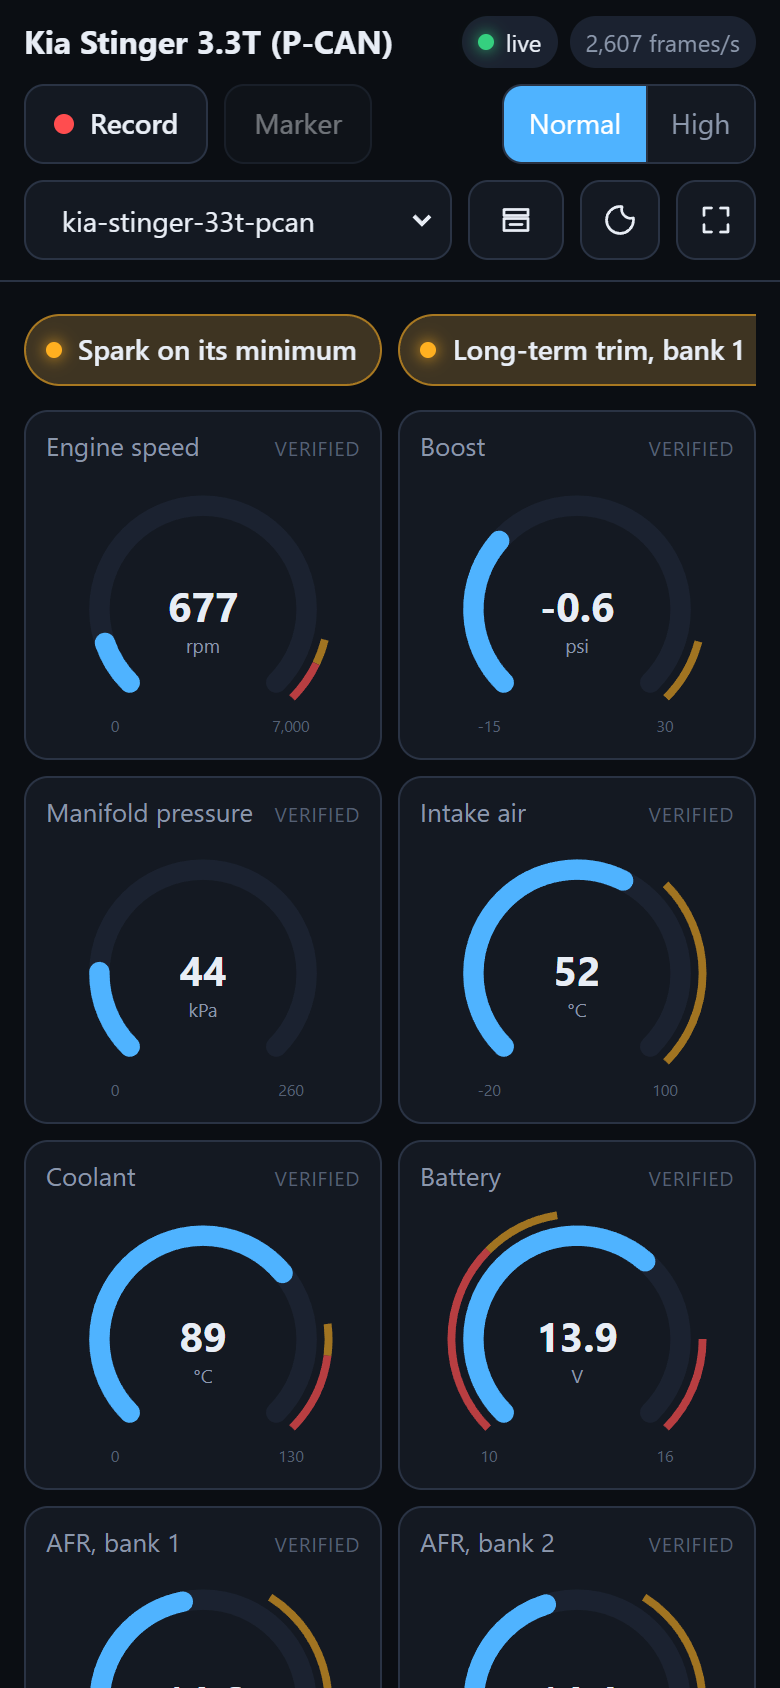
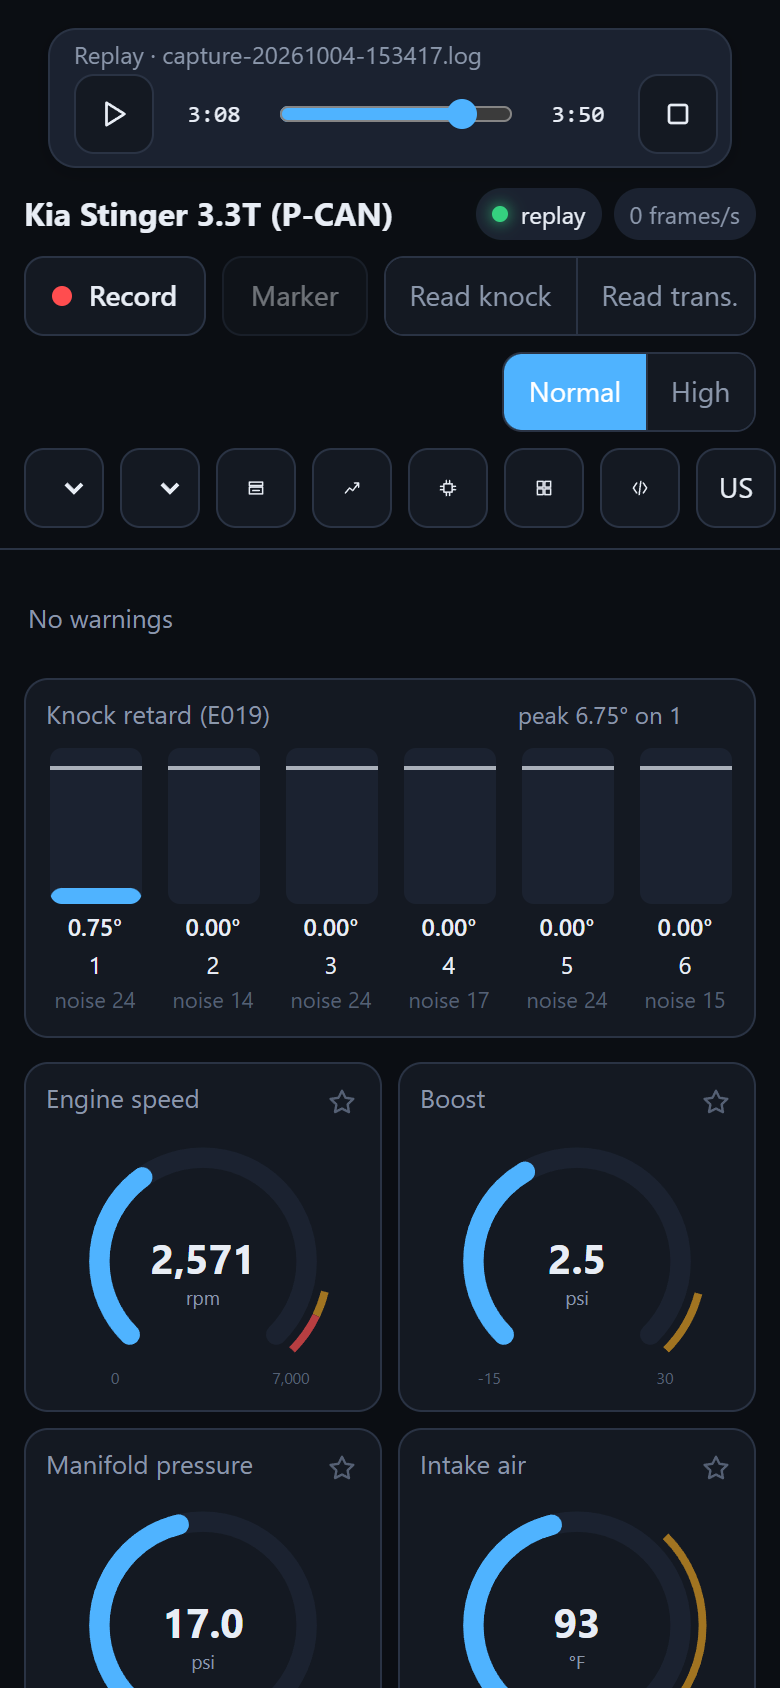
README brought up to date, with new dashboard screenshots
- The introduction says what PandaCapture does now: the dashboard's knock, transmission
  and replay timeline, finding signals and Claude, Runs, diagnostics (reads first; clearing
  and engine-off sessions only with the engine off), the Firmware page, and that the
  Windows program is signed.
- The bar at the top of the gauges lists every control: Read knock / Read transmission,
  Replay, Runs, Firmware, Modules, Developer Tools, US / Metric.
- The built-in map: 115 signals, with target gear and the transmission's drive mode.
- --replay plays on a timeline and opens zips; the command list has runs and diag.
- The status note no longer claims a signal count from an older map, and says what
  hasn't been sent on a real car yet.
- Screenshots retaken from a replay of a real Stinger capture: the gauges with the knock
  tile and the replay timeline, high resolution with traces, and a phone.

The knock tile's bars get 15 % headroom, so a peak mark at the top value still shows.

diff --git a/pandacapture/web/dashboard.html b/pandacapture/web/dashboard.html
@@ -820,7 +820,7 @@
     if (key === knockShown) return;
     knockShown = key;
     $("knockTile").classList.toggle("stale", !!k.stale);
-    const top = Math.max(6, ...k.peak, ...k.retard);
+    const top = Math.max(6, ...k.peak, ...k.retard) * 1.15;   // headroom, so a peak mark shows below the top
     k.retard.forEach((deg, i) => {
       const c = kcyls[i];
       const fill = c.querySelector(".kfill");

diff --git a/README.md b/README.md
@@ -11,10 +11,22 @@ them live as gauges, numbers and status lights.
   controller needs (RPM, MAP/boost, intake temperature). PandaCapture's own signal finder, SavvyCAN
   and can-utils all read them.
 - **The live dashboard** decodes the traffic in your browser with an address map for your vehicle.
-  A Kia Stinger 3.3T map is built in.
+  A Kia Stinger 3.3T map is built in, with 115 signals.
+  - It also shows per-cylinder knock and the transmission's slip, speeds and temperature.
+  - It plays captures back on a timeline you can scrub, in US or metric units.
+- **Finding signals:** lines a capture up with a logger's CSV or the car's own OBD answers, ranks the
+  fields, and hands you map entries. Claude can study a capture with your API key, or you can pack it
+  for another agent.
+- **Runs:** times each full-throttle pull and stop in a capture (0-60, 60 ft to 1/4 mile, 60-0) and
+  says where it could be better, against your best run, with a chart for each point.
+- **Diagnostics, reads first:**
+  - OBD PIDs, codes and freeze frames;
+  - each module's own codes and identification;
+  - per-cylinder knock and transmission data.
+
+  Clearing codes and engine-off sessions only go out with the engine off and the car stopped.
 - **The panda's firmware:** PandaCapture flashes its own onto the panda, backing up what was there
-  first.
-- **Transmitting:** it can send frames once you acknowledge a warning.
+  first, from the command line or the dashboard's Firmware page.
 
 - **Listen-only by default.** The panda's CAN controllers sit in bus-monitoring mode: no ACKs, no
   error frames, nothing transmitted. The bus can't tell the panda is there.
@@ -25,20 +37,22 @@ them live as gauges, numbers and status lights.
   CAN only.
 - **Windows and Linux** now; macOS is planned. On Android, see PandaCapture Android. The USB
   protocol is in [docs/protocol.md](docs/protocol.md).
-- **Transmitting is gated.** You type `TRANSMIT` after a warning. Only PandaCapture's firmware can
-  transmit at all, and it stops by itself within about 2 seconds if this program goes away.
+- **Transmitting is gated.** Anything PandaCapture sends is checked against a table of what it may
+  send, and you type `TRANSMIT` after a warning. Only PandaCapture's firmware can transmit at all, and
+  it stops by itself within about 2 seconds if this program goes away.
 - **Other adapters too (Windows):** RP1210 and J2534 tools such as a NEXIQ USB-Link 2, a Tactrix
   OpenPort or a Mongoose can record and drive the dashboard instead of a panda. See
   [Other adapters](#other-adapters-rp1210-and-j2534).
 - **One file, nothing to install.** The program carries the firmware for both panda families, the
-  dashboard and the built-in maps.
+  dashboard and the built-in maps. On Windows it's signed by Xtremission LLC.
 
 > **Status:** tested on a oneclone mini blackpanda (STM32F4):
 > - flash backup, flashing and updating, and the transmit gate
 > - capture from a Kia Stinger's P-CAN: about 2,430 frames/s for 165 s, with no dropouts
-> - the dashboard: replaying real Stinger captures at full rate, with all 88 map signals decoding
+> - the dashboard: replaying real Stinger captures at full rate, with the map's signals decoding
 >
-> Not yet tested: a Red Panda, transmitting on a real bus, and the dashboard live in the car.
+> Not yet tested: a Red Panda, sending anything on a real car's bus (OBD, diagnostics, the knock and
+> transmission reads), and the dashboard live in the car.
 > See [STATUS.md](STATUS.md).
 
 ## Hardware
@@ -313,12 +327,13 @@ On a phone (with `--lan`), the controls fold into two rows:
 <img src="docs/images/dashboard-phone.png" alt="The dashboard on a phone" width="300">
 
 An **address map** says which CAN IDs and bits mean what for your vehicle:
-- **Built in:** `kia-stinger-33t-pcan`, 113 signals from comma's DBC, tracing of the ECU's CAN code, and captures of the car. It covers:
+- **Built in:** `kia-stinger-33t-pcan`, 115 signals from comma's DBC, tracing of the ECU's CAN code, and captures of the car. It covers:
   - engine and boost; torque and spark
   - an idle and lope panel: idle target, 5 s RPM swing and low, alternator duty
   - cam phasers in degrees, with overlap, off-target (red) and tracking-lag (amber) lamps
   - temperatures, battery, fuel pressures, with a low-side fuel pressure lamp
-  - drive mode and gear; wheel speeds and rear slip; the AWD coupling's duty and torque
+  - drive mode, gear, the gear the transmission is shifting to, and its own drive mode
+  - wheel speeds and rear slip; the AWD coupling's duty and torque
   - brake pressure and pedal, accelerations, yaw rate and steering angle
   - traction control's torque requests, and engine and chassis lamps
 
@@ -336,10 +351,18 @@ The bar at the top of the page:
 |---|---|
 | **Record / Stop** | records a capture while you watch, with the elapsed time. It rolls over to a new file every 100 MB, as above |
 | **Marker** | drops a numbered marker into the recording. The `M` key does the same |
-| **Map** | switches address map. Every open page reloads with it |
-| **Captures** | opens the Captures & Claude page in its own window (below); the gauges keep running |
+| **Read knock / Read transmission** | the dashboard asks for them itself while it records (above) |
 | **Normal / High resolution** | Normal updates each value 10 times a second. High resolution streams every sample as fast as the bus sends it, with a 10-second trace and the update rate on each tile |
-| **Theme, Full screen** | light or dark, and the whole screen for the car |
+| **Map** | switches address map. Every open page reloads with it |
+| **Replay** | plays a capture from the captures folder on a timeline ([below](#5-watch-it-live)) |
+| **Captures** | the Captures & Claude page (below) |
+| **Runs** | the Runs page: [runs timed and coached](#runs-timed-and-coached) |
+| **Firmware** | the Firmware page: flash, update, back up and restore the panda ([section 2](#2-flash-the-pandacapture-firmware-once)). A dot on it means the panda needs PandaCapture's firmware or an update |
+| **Modules** | the Modules page: every module that answers, what it is and its own codes ([below](#each-modules-own-codes-and-data-uds)) |
+| **Developer Tools** | hooks for building your own tools onto PandaCapture ([below](#developer-tools)) |
+| **US / Metric, Theme, Full screen** | the units every page shows, light or dark, and the whole screen for the car |
+
+Each page opens in its own window, and the gauges keep running.
 
 The gauge page holds only what's needed while driving. Everything else is on the **Captures & Claude**
 page:
@@ -368,7 +391,7 @@ as the page does.
 | Option | Does |
 |---|---|
 | `--record` | starts recording straight away (the Record button does the same) |
-| `--replay LOG` | plays back a capture instead of reading the panda: try maps at your desk |
+| `--replay LOG` | plays back a capture (or a zip holding one) on a timeline instead of reading the panda: try maps at your desk |
 | `--simulate` | fake traffic |
 | `--lan` | serves the page to other devices on your network, such as a phone on the dash. Only this computer can open it otherwise |
 
@@ -831,7 +854,7 @@ pandacapture match CAPTURE [REFERENCE.csv | --obd] [options]     find which fiel
   --column NAME                 match only this column (repeatable)
   --top N, --min-r R            how many matches to show, and the weakest to show
 
-pandacapture list | info | dashboard | maps | match | analyze | apikey | bundle | obd | codes | modules | did | flash | backup | restore | send | replay | selftest      (each has --help)
+pandacapture list | info | dashboard | maps | match | analyze | apikey | bundle | runs | obd | codes | modules | did | diag | flash | backup | restore | send | replay | selftest      (each has --help)
 ```
 
 ## Documentation
